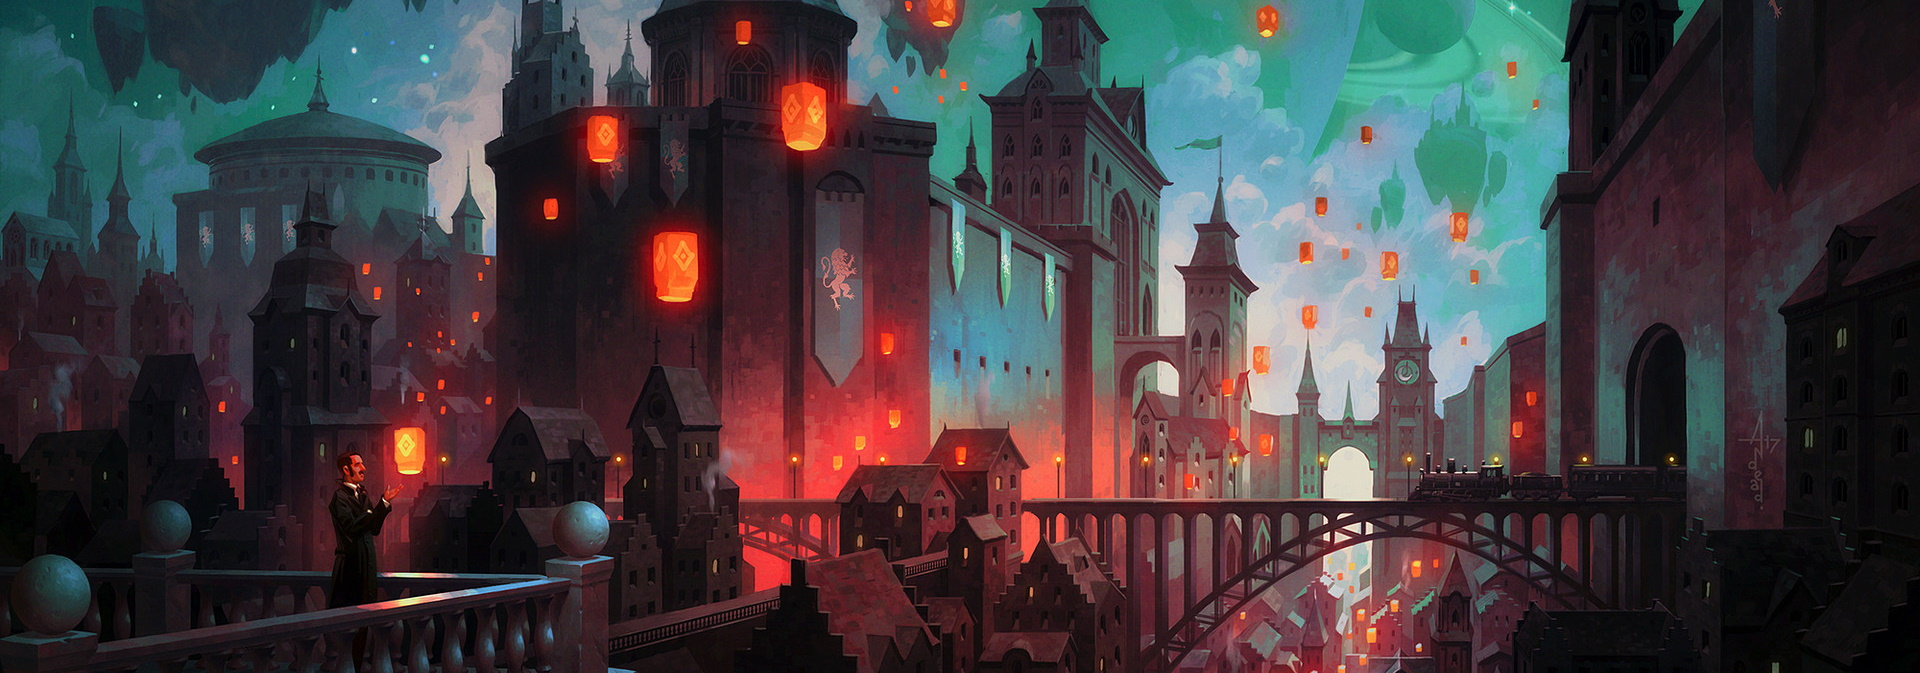
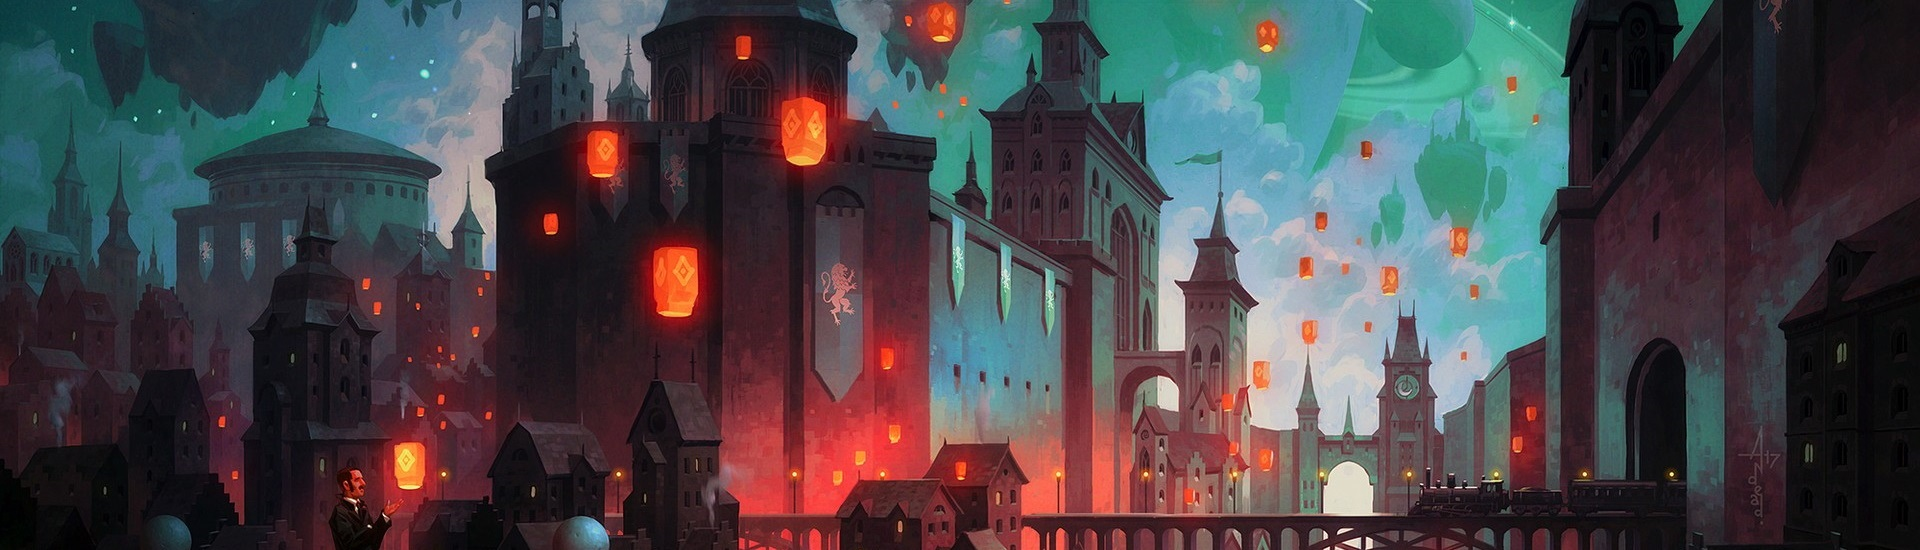
Fixes to index layout
Added some planned features to readme

diff --git a/template.html b/template.html
@@ -16,9 +16,12 @@
   <body class="tile">
     
     <!-- Navigation -->
-    <nav class="navbar navbar-expand-lg navbar-dark bg-dark fixed-top">
+    <nav class="navbar-custom navbar-expand-lg navbar-dark bg-dark fixed-top">
       <div class="container">
-        <a class="navbar-brand" href="#top">University of Morgrave</a>
+          <a class="navbar-brand" href="#top">
+            <img class="" src="image/COA.png" height="40" class="d-inline-block align-top" alt="">
+            University of Morgrave            
+          </a>
         <button class="navbar-toggler" type="button" data-toggle="collapse" data-target="#navbarResponsive" aria-controls="navbarResponsive" aria-expanded="false" aria-label="Toggle navigation">
           <span class="navbar-toggler-icon"></span>
         </button>
@@ -30,16 +33,16 @@
               </a>
             </li>
             <li class="nav-item">
-              <a class="nav-link" href="#">New to DnD</a>
+              <a class="nav-link" href="#">New Players</a>
             </li>
             <li class="nav-item">
-              <a class="nav-link" href="#">Scheduled Games</a>
+              <a class="nav-link" href="#">Schedule</a>
             </li>
             <li class="nav-item">
-              <a class="nav-link" href="#">Get in Touch</a>
+              <a class="nav-link" href="#">Contact Us</a>
             </li>
             <li class="nav-item">
-              <a class="nav-link" href="#">About the DM</a>
+              <a class="nav-link" href="#">About</a>
             </li>
           </ul>
         </div>

diff --git a/index.html b/index.html
@@ -48,12 +48,18 @@
     <!-- Top of page anchor -->
     <a name="top"></a>
     <!-- Main Body -->
-    <!-- Header - set the background image for the header in the line below -->
-    <header class="py-5 bg-image-full" style="background-image: url(/image/citylandscape.jpg);">
-      <img class="img-fluid d-block mx-auto" src="/image/breland.png" alt="">
+    <!-- Header with background -->
+    <header class="bg-image-full" style="background-image: url('/image/citylandscape.jpg')">
+      <div class="overlay-inner">
+        <div class="container py-5 text-light">
+          <h1>Come explore the magical world of Eberron with us!</h1>
+          <p class="lead">Come join Morgrave University's Archeology Department today!</p>
+          <p>Treasure, adventure and excitement await you! Want to know more?</p>
+        </div>
+      </div>
     </header>
       <!-- Content section -->
-      <section class="py-5 tile">
+      <section class="py-5">
         <div class="container">
           <h1>Section Heading</h1>
           <p class="lead">Come join Morgrave University's Archeology Department today!</p>

diff --git a/css/1base.css b/css/1base.css
@@ -1,5 +1,22 @@
 /* base css styling for handphones */
+body { 
+  padding-top: 56px; 
+}
 .tile {
     background-image: url(../image/redox_01.png);
-    padding-top: 56px;
+    }
+
+.bg-image-full {
+  background: no-repeat center bottom scroll;
+  -webkit-background-size: cover;
+  -moz-background-size: cover;
+  background-size: cover;
+  -o-background-size: cover;
+  height:550px;
+  padding-top: 100px;
+}
+.overlay-inner {
+  background-color: rgba(0, 0, 0, 0.7);
+   height: 350px;
   }
+

diff --git a/README.md b/README.md
@@ -10,9 +10,22 @@ https://app.creately.com/diagram/cxfJNlVuXj7/view
 ### Existing Features
 
 ### Features Left to Implement
+Navbar:
+Discord Button
+Website Logo
+Bottom border
+Navbar shadow?
+Footer:
+Link section 
+Bottom bar with copyright disclaimers
+Events page:
+Carousel with clickable links
+Disqus plugin
+Resources page:
+Various sections with anchors
 
 ## Technologies Used
-
+Bootstrap 4
 ## Testing
 
 ## Deployment
